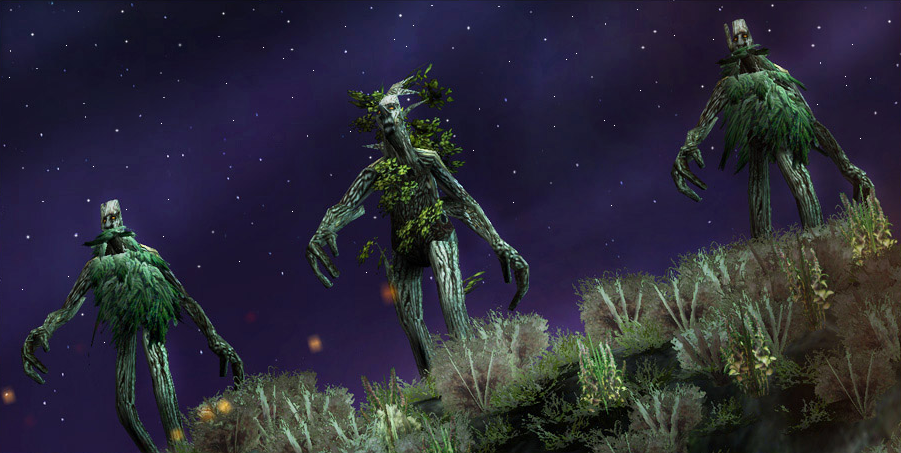
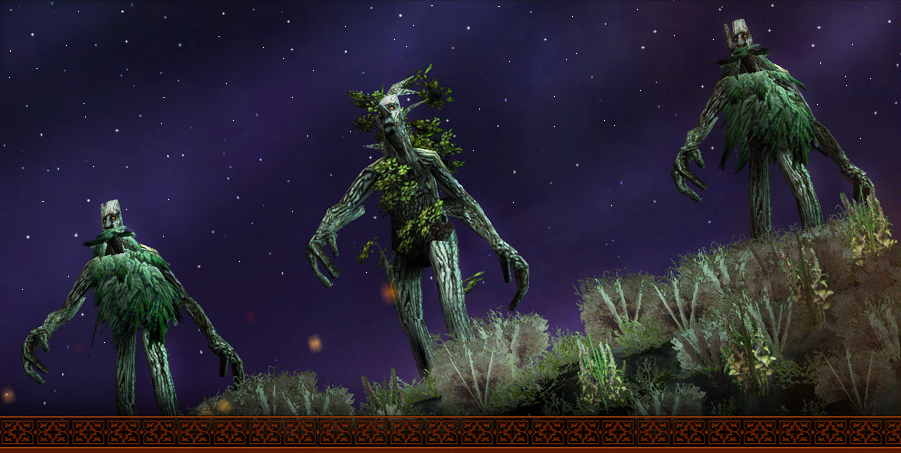
Remove Name on first screen, Added bottom border for bg-images and correct some text errors

Changed region(s): [[0.0, 0.8653, 1.0, 1.0]]

diff --git a/Patch2.22Launcher/OptionsBFME1.cs b/Patch2.22Launcher/OptionsBFME1.cs
@@ -46,7 +46,7 @@ namespace PatchLauncher
             BtnCancel.ForeColor = Color.FromArgb(192, 145, 69);
 
             //Label-Styles
-            LblTheme.Text = "Play Theme Music in launcher at start";
+            LblTheme.Text = "Play theme music in launcher at start";
             LblTheme.Font = new Font("Albertus MT", 16, FontStyle.Regular);
             LblTheme.ForeColor = Color.FromArgb(192, 145, 69);
             LblTheme.BackColor = Color.Transparent;

diff --git a/Patch2.22Launcher/GameSelect.Designer.cs b/Patch2.22Launcher/GameSelect.Designer.cs
@@ -85,7 +85,6 @@
             this.MaximizeBox = false;
             this.Name = "GameSelect";
             this.StartPosition = System.Windows.Forms.FormStartPosition.CenterScreen;
-            this.Text = "GameSelect";
             this.TopMost = true;
             this.ResumeLayout(false);
 
